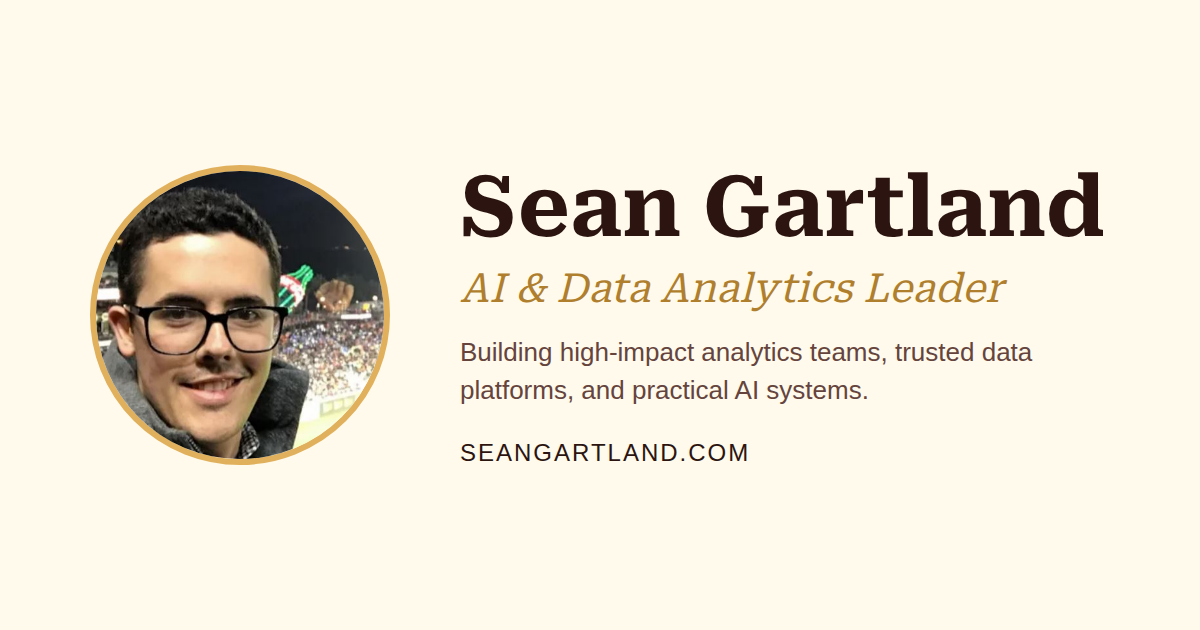
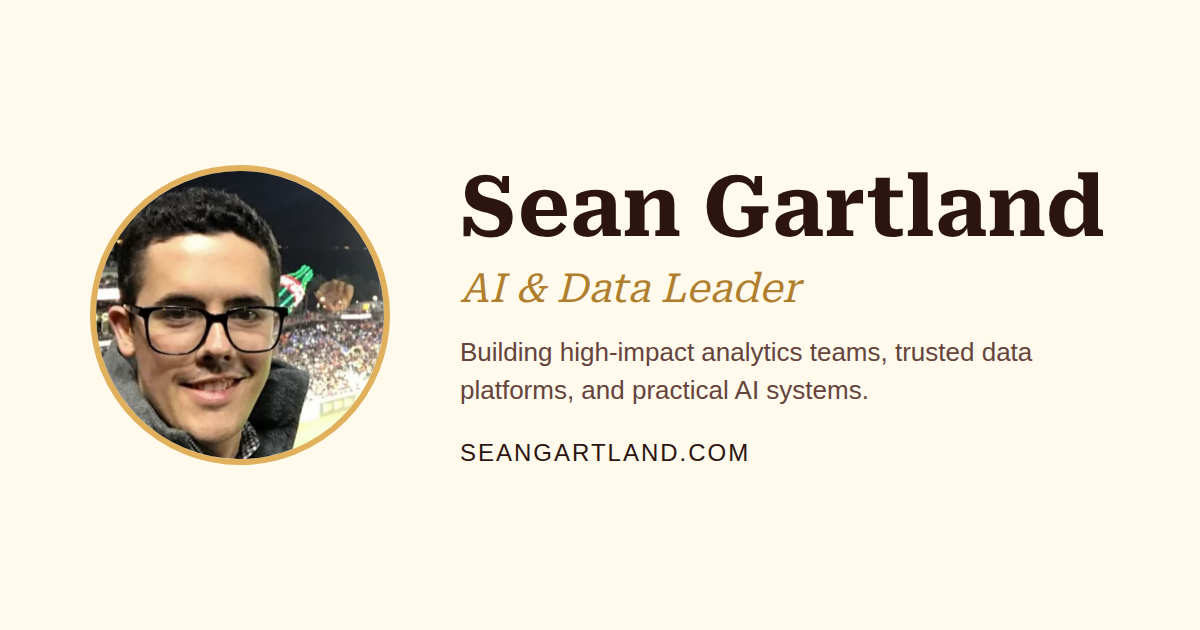
Hero title: AI & Data Leader, cut filler adjectives
- Hero, <title>, og:title, twitter:title, image alt: 'AI & Data
  Analytics Leader' -> 'AI & Data Leader' so the headline does not
  pigeonhole into analytics (he has led data engineers too)
- Hero + About: drop 'advanced' from 'advanced AI systems'; the
  surrounding copy already names the concrete systems (agent
  orchestration, natural-language querying over governed data)
- Regenerated assets/og-image.png from og-card.html with new title

Changed region(s): [[0.555, 0.4222, 0.8325, 0.4825]]

diff --git a/index.html b/index.html
@@ -3,7 +3,7 @@
 <head>
   <meta charset="UTF-8" />
   <meta name="viewport" content="width=device-width, initial-scale=1.0" />
-  <title>Sean Gartland — AI & Data Analytics Leader</title>
+  <title>Sean Gartland — AI & Data Leader</title>
   <meta name="description" content="Sean Gartland is Senior Director of Data Analytics at Serena &amp; Lily, building AI systems and data platforms for retail and e-commerce. Based in San Francisco." />
   <link rel="canonical" href="https://www.seangartland.com/" />
   <meta name="theme-color" content="#2c1511" />
@@ -14,19 +14,19 @@
   <meta property="og:type" content="website" />
   <meta property="og:site_name" content="Sean Gartland" />
   <meta property="og:url" content="https://www.seangartland.com/" />
-  <meta property="og:title" content="Sean Gartland — AI &amp; Data Analytics Leader" />
+  <meta property="og:title" content="Sean Gartland — AI &amp; Data Leader" />
   <meta property="og:description" content="Sean Gartland is Senior Director of Data Analytics at Serena &amp; Lily, building AI systems and data platforms for retail and e-commerce. Based in San Francisco." />
   <meta property="og:image" content="https://www.seangartland.com/assets/og-image.png" />
   <meta property="og:image:type" content="image/png" />
   <meta property="og:image:width" content="1200" />
   <meta property="og:image:height" content="630" />
-  <meta property="og:image:alt" content="Sean Gartland — AI &amp; Data Analytics Leader" />
+  <meta property="og:image:alt" content="Sean Gartland — AI &amp; Data Leader" />
   <!-- Twitter -->
   <meta name="twitter:card" content="summary_large_image" />
-  <meta name="twitter:title" content="Sean Gartland — AI &amp; Data Analytics Leader" />
+  <meta name="twitter:title" content="Sean Gartland — AI &amp; Data Leader" />
   <meta name="twitter:description" content="Sean Gartland is Senior Director of Data Analytics at Serena &amp; Lily, building AI systems and data platforms for retail and e-commerce. Based in San Francisco." />
   <meta name="twitter:image" content="https://www.seangartland.com/assets/og-image.png" />
-  <meta name="twitter:image:alt" content="Sean Gartland — AI &amp; Data Analytics Leader" />
+  <meta name="twitter:image:alt" content="Sean Gartland — AI &amp; Data Leader" />
   <!-- Structured data -->
   <script type="application/ld+json">
   {
@@ -104,8 +104,8 @@
             </a>
           </div>
           <h1 class="hero-name"><span class="text-secondary">Hi, I'm</span> <span class="text-primary">Sean</span></h1>
-          <h3 class="hero-title">AI &amp; Data Analytics Leader</h3>
-          <p class="hero-desc">I lead data and analytics teams and build advanced AI systems, from agent orchestration to natural-language querying over governed data, that turn trusted data into faster, better business decisions. Based in San Francisco.</p>
+          <h3 class="hero-title">AI &amp; Data Leader</h3>
+          <p class="hero-desc">I lead data and analytics teams and build AI systems, from agent orchestration to natural-language querying over governed data, that turn trusted data into faster, better business decisions. Based in San Francisco.</p>
         </div>
         <!-- Right: Headshot -->
         <div class="hero-right">
@@ -125,7 +125,7 @@
         <h2 class="section-heading">About</h2>
         <h3 class="section-subtitle">Building analytics teams and the AI systems behind them</h3>
         <div class="about-text">
-          <p>I lead data and analytics teams, building advanced AI systems that make trusted information easier to find, understand, and use.</p>
+          <p>I lead data and analytics teams, building AI systems that make trusted information easier to find, understand, and use.</p>
           <p>At Serena &amp; Lily, I lead Data Analytics: AI agent orchestration for development workflows, natural-language querying over governed semantic layers, and automated analytics intake. Earlier roles at Dolls Kill and Williams-Sonoma span company strategy, data infrastructure, forecasting, merchandising, inventory, and omnichannel operations.</p>
           <p>Outside work, I build software projects and explore practical uses of AI in analytics. Away from a screen, I'm usually running, hiking, or planning a national park trip.</p>
         </div>

diff --git a/og-card.html b/og-card.html
@@ -34,7 +34,7 @@
     <img class="photo" src="assets/headshot/irlpfp.jpg" alt="" />
     <div>
       <div class="name">Sean Gartland</div>
-      <div class="title">AI &amp; Data Analytics Leader</div>
+      <div class="title">AI &amp; Data Leader</div>
       <div class="tag">Building high-impact analytics teams, trusted data platforms, and practical AI systems.</div>
       <div class="url">SEANGARTLAND.COM</div>
     </div>
